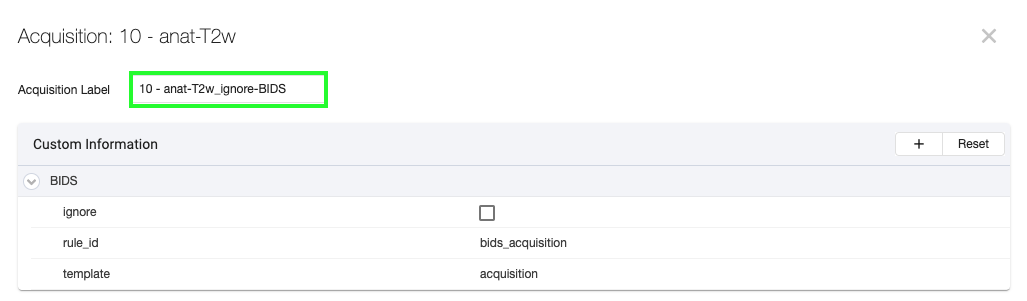
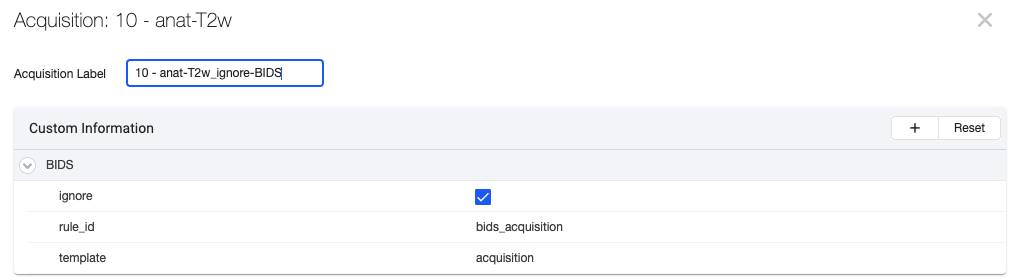
Respond to review

diff --git a/bids/debug-bids-curation/Add_ignore_rule.md b/bids/debug-bids-curation/Add_ignore_rule.md
@@ -1,11 +1,10 @@
 # Debug BIDS Curation
 
 ## Add an ignore rule to a template
-
-The template engine traverses the Flywheel hierarchy, matching and extracting metadata which matches the text strings in the project curation templates. This implementation is very flexible and powerful.   
+The template engine traverses the Flywheel hierarchy, matching and extracting metadata which matches the text strings in the project curation templates. In some cases, a set of scans, sessions, or subjects should be ignored, skipped during the renaming to BIDS spec and excluded from any algorithmic processing. Because the template engine's implementation is very flexible and powerful, one can add a Flywheel-specific final entity, "_ignore-BIDS", to specify the set to skip. During template processing, this final entity will set the ignore boolean to true, which will stop renaming that container and keep the container from being downloaded/exported when the BIDS-specific dataset is requested.
 
 ### Ignore all files in an acquisition container
-String matches are most commonly tested against the metadata field, `acquisition.label`. field is the most common metadata field used in the string matching.  This field is the text label of the acquisition container where files, usually a DICOM and a NIfTI file, are attached. Rather than labeling each file in the acquisition with an ignore flag (by checking the "ignore" box in the UI, one can ignore all files in an acquisition by adding a template rule that looks for "_ignore-BIDS" at the end of `acquisition.label`. Here is an example of ignoring an entire acquisition in the UI.
+String matches are most commonly tested against the metadata field, `acquisition.label`.  This field is the text label of the acquisition container where files, usually a DICOM and a NIfTI file, are attached. One can ignore all files in an acquisition by adding a template rule that looks for "_ignore-BIDS" at the end of `acquisition.label`. Here is an example of ignoring an entire acquisition in the UI.
 
 ![ignore_bids_acq.png](pics/add_ignore_rule/ignore_bids_acq.png)
 
